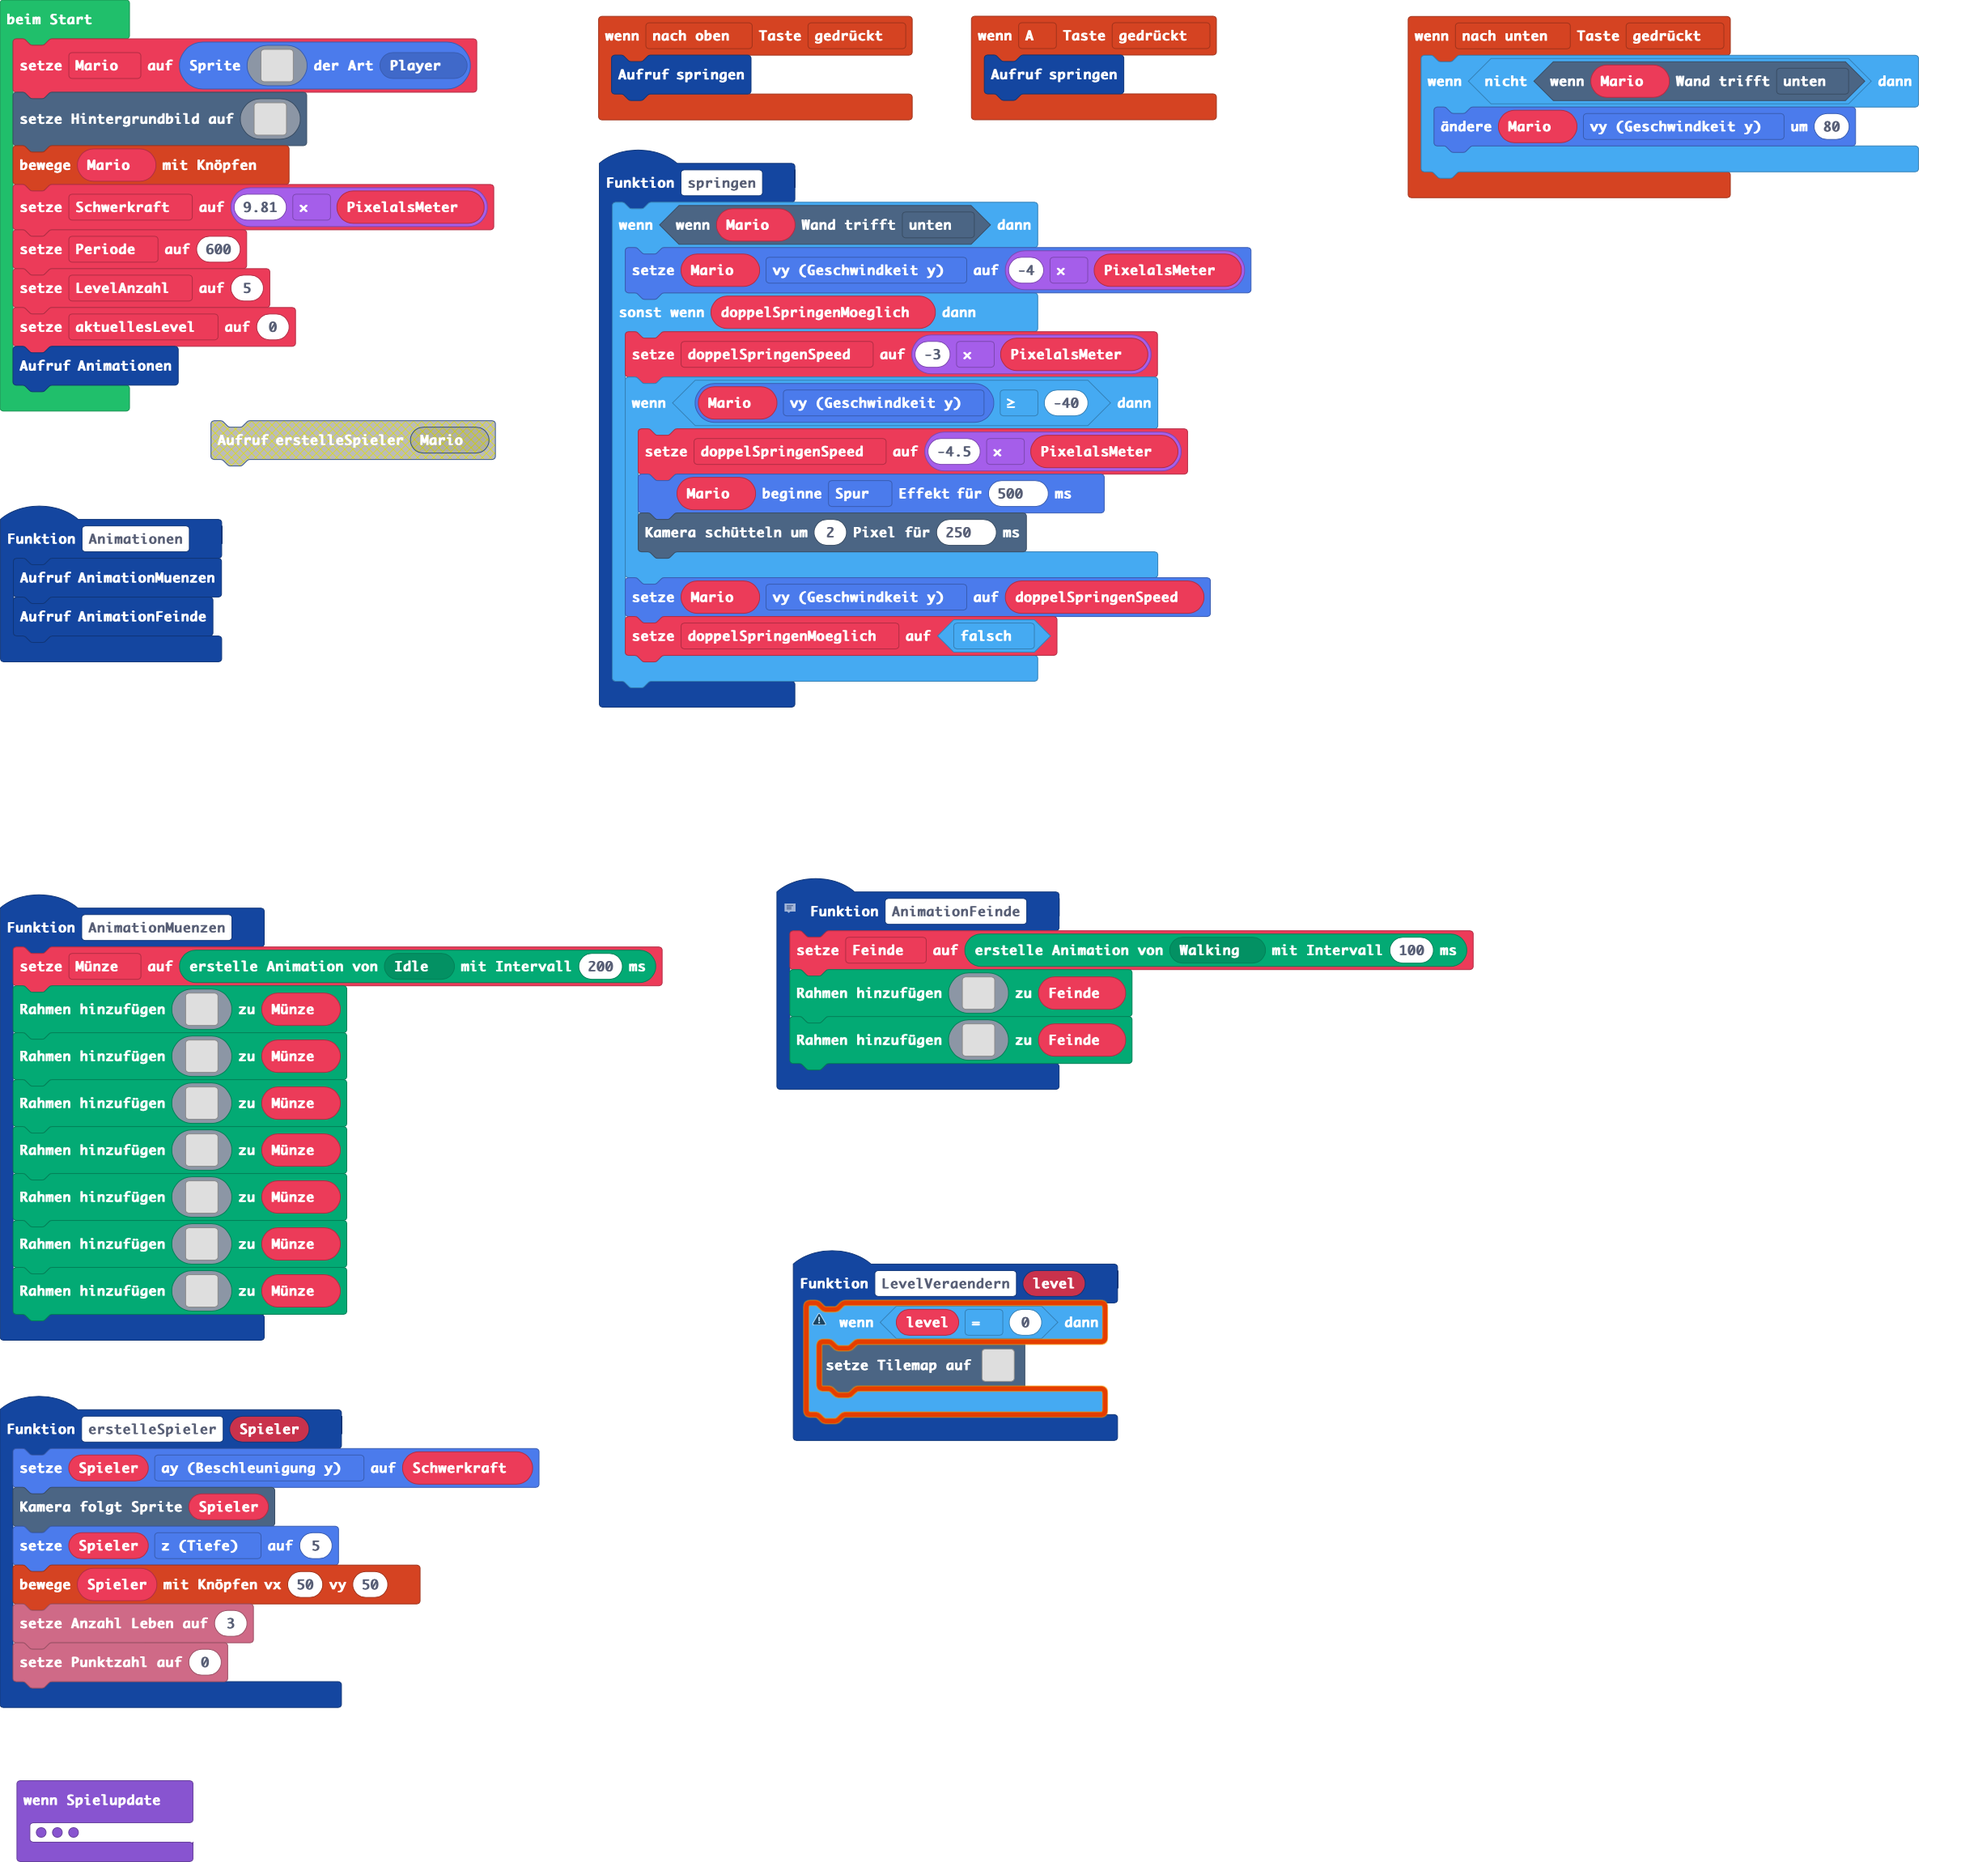
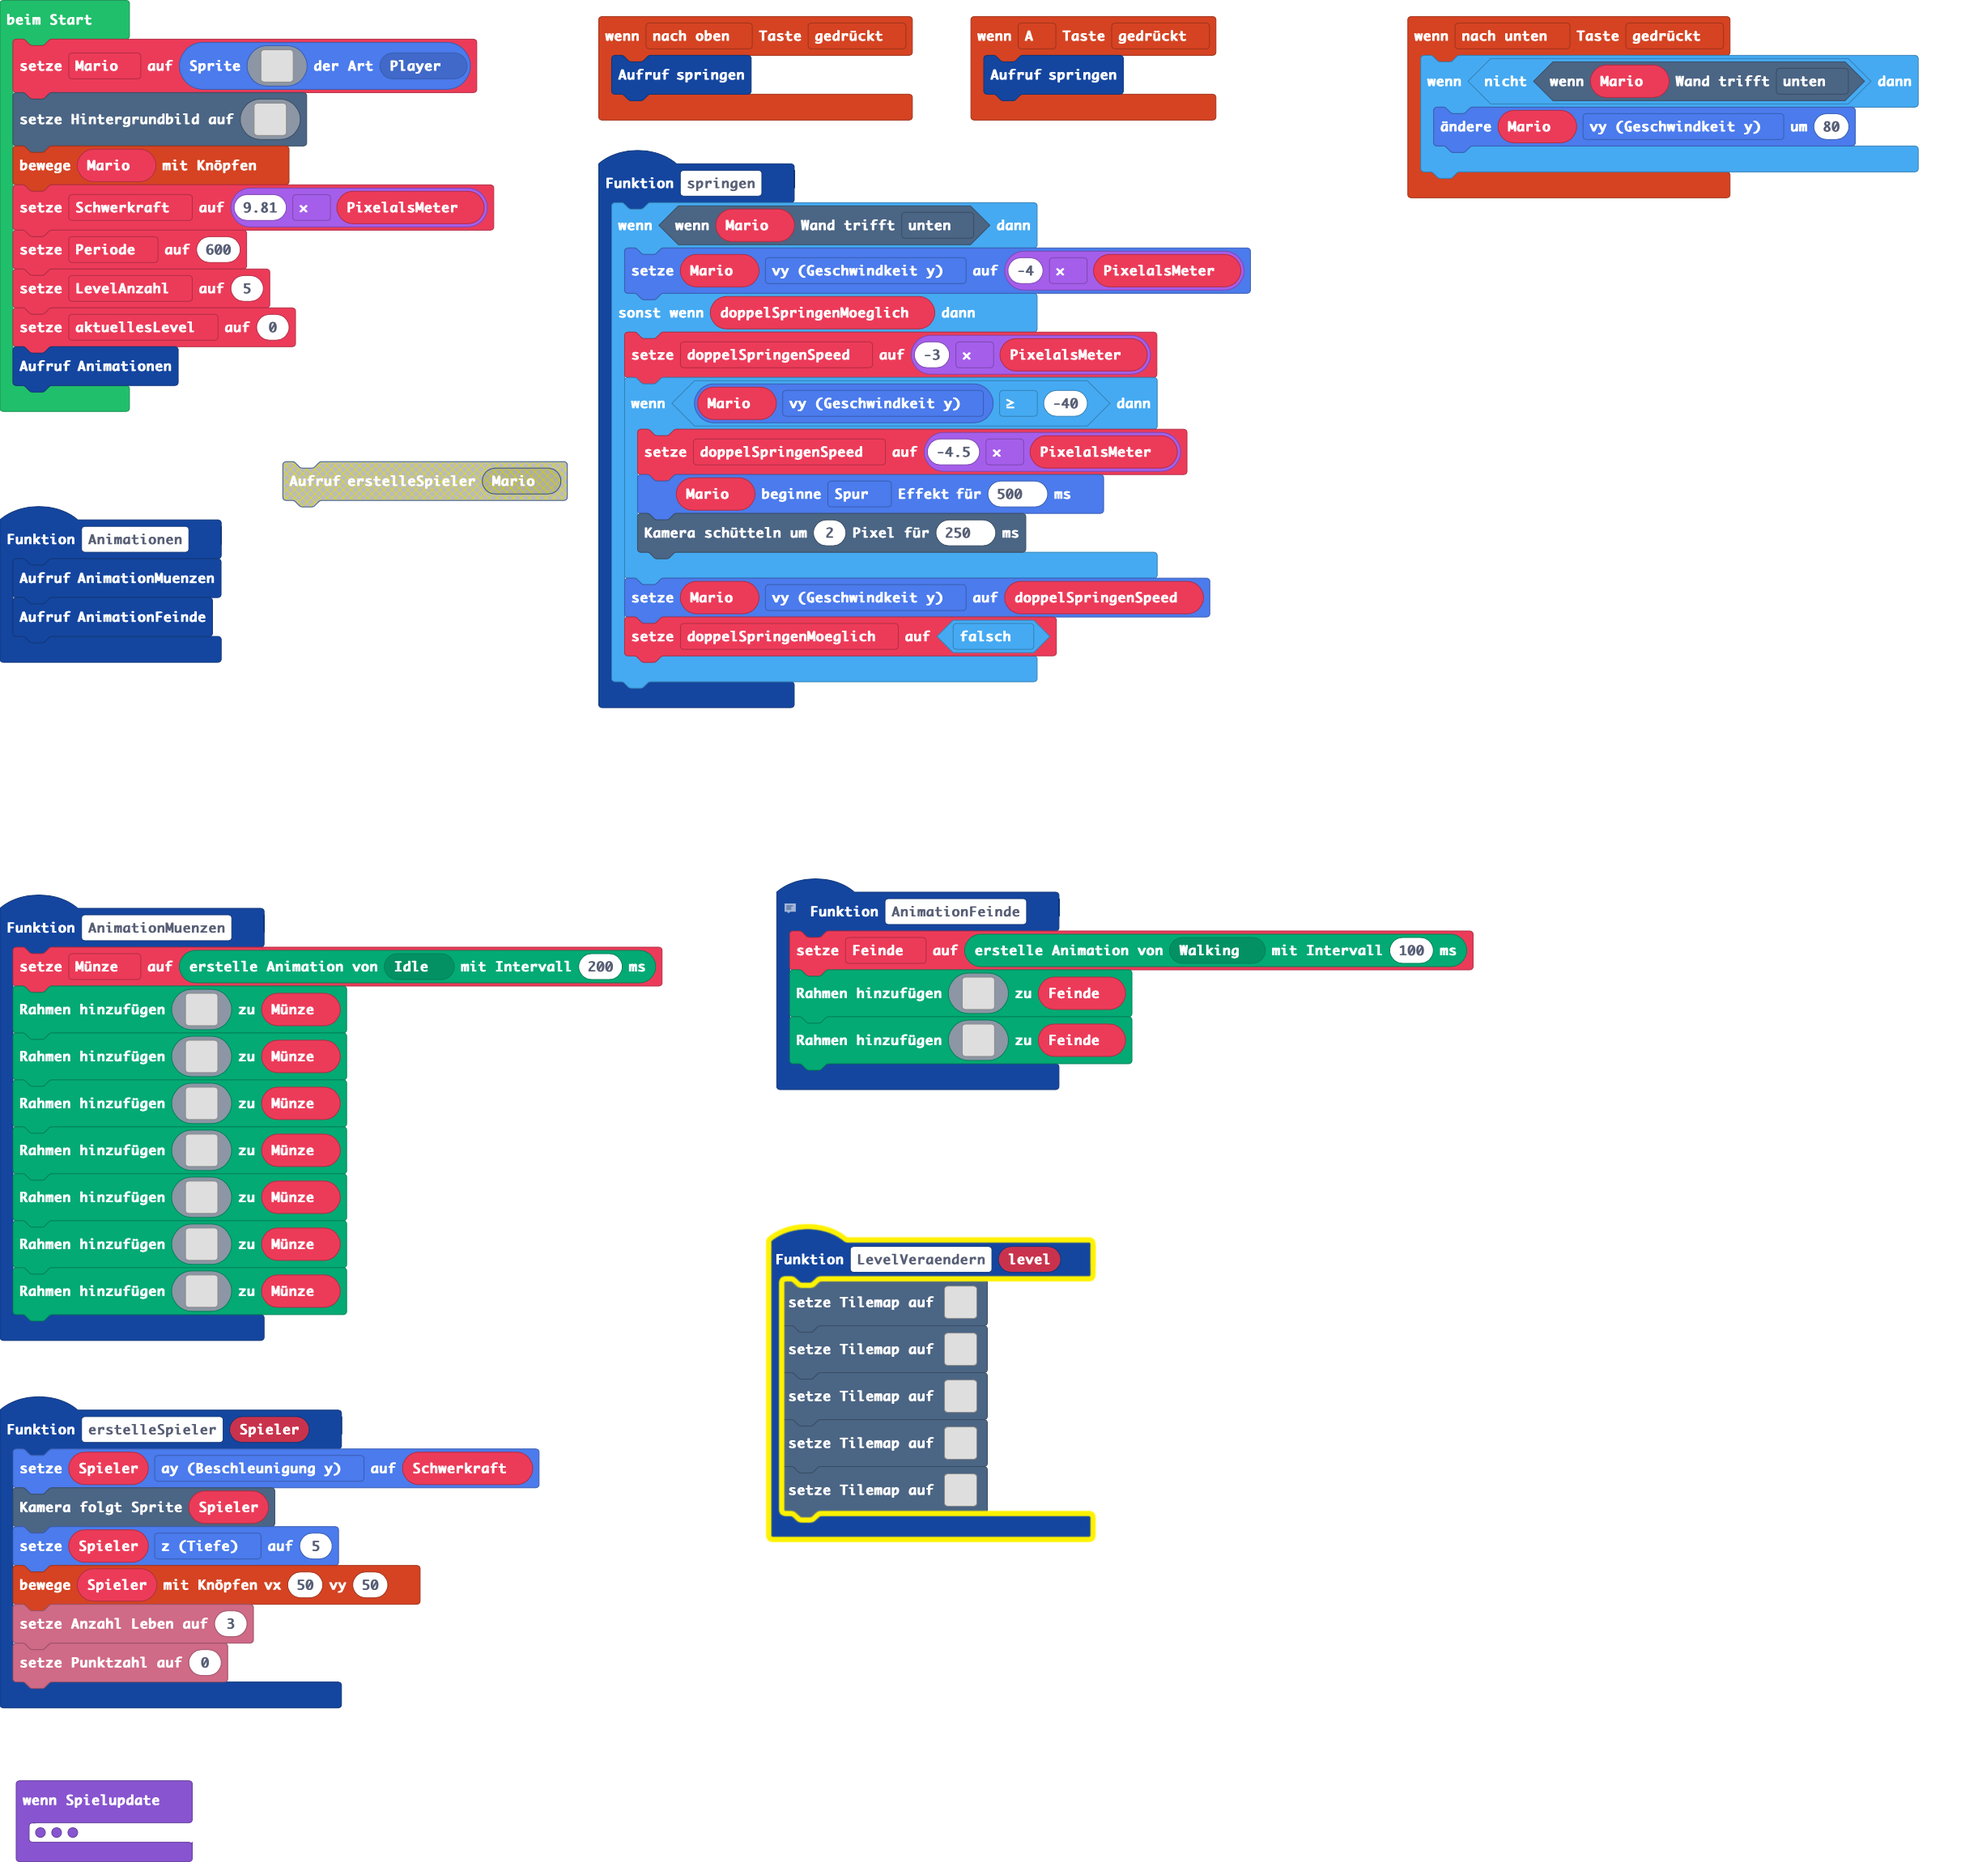
Verschiedene Level erstellt

diff --git a/tilemap.g.ts b/tilemap.g.ts
@@ -22,6 +22,118 @@ namespace myTiles {
 ...2...2..2..2...2...2...2......
 22222222222222222222222222222222
 `, [myTiles.transparency16,sprites.castle.tilePath1,sprites.castle.tilePath2,sprites.castle.tilePath3,sprites.builtin.brick,myTiles.tile1,myTiles.tile3], TileScale.Sixteen);
+            case "Level3":
+            case "Level3":return tiles.createTilemap(hex`1000100000000000000000000000000000000000000000000000000000000000000000000000000000000000000000000000000000000000000000000000000000000000000000000000000000000000000000000000000000000000000000000000000000000000000000000000000000000000000000000000000000000000000000000000000000000000000000000000000000000000000000000000000000000000000000000000000000000000000000000000000000000000000000000000000000000000000000000000000000000000000000000000000000000000000000000000000000000000000000000000000000000000000000000000000000000000`, img`
+. . . . . . . . . . . . . . . . 
+. . . . . . . . . . . . . . . . 
+. . . . . . . . . . . . . . . . 
+. . . . . . . . . . . . . . . . 
+. . . . . . . . . . . . . . . . 
+. . . . . . . . . . . . . . . . 
+. . . . . . . . . . . . . . . . 
+. . . . . . . . . . . . . . . . 
+. . . . . . . . . . . . . . . . 
+. . . . . . . . . . . . . . . . 
+. . . . . . . . . . . . . . . . 
+. . . . . . . . . . . . . . . . 
+. . . . . . . . . . . . . . . . 
+. . . . . . . . . . . . . . . . 
+. . . . . . . . . . . . . . . . 
+. . . . . . . . . . . . . . . . 
+`, [myTiles.transparency16], TileScale.Sixteen);
+            case "Level0":
+            case "Level2":return tiles.createTilemap(hex`2000080000000000000000000000000000000000000000000000000000000000000000000000000000000000000000000000000000000000000000000000000000000000000000000000000000020000020000000000000000000000000000000000000000000000000200050505050505050500000000000000000002000000000000000000000000000000000000000000000000000000000000000000000000000000000002000005000000000000000000000500000000000000050000000000000000000500000500000005000005000000050002000500000005000000000001000304040404040404040404040404040404040404040404040404040404040404`, img`
+. . . . . . . . . . . . . . . . . . . . . . . . . . . . . . . . 
+. . . . . . . . . . . . . . . . . . . . . . . . . . . . . . . . 
+. . . . . . . . . . . . . . . . . . . . . . . . . . . . . . . . 
+. . . . . . . 2 2 2 2 2 2 2 2 . . . . . . . . . . . . . . . . . 
+. . . . . . . . . . . . . . . . . . . . . . . . . . . . . . . . 
+. . . . . 2 . . . . . . . . . . 2 . . . . . . . 2 . . . . . . . 
+. . 2 . . 2 . . . 2 . . 2 . . . 2 . . . 2 . . . 2 . . . . . . . 
+2 2 2 2 2 2 2 2 2 2 2 2 2 2 2 2 2 2 2 2 2 2 2 2 2 2 2 2 2 2 2 2 
+`, [myTiles.transparency16,myTiles.tile1,myTiles.tile3,sprites.castle.tilePath1,sprites.castle.tilePath2,sprites.builtin.brick], TileScale.Sixteen);
+            case "Level5":
+            case "Level4":return tiles.createTilemap(hex`2000080000000000000000000000000000000000000000000000000000000000000000000000000000000000000000000200000200000000000000000000020000000000000000000000000000000000060606060000000000000000000006000000000000000000000000000000000000000000000000000000000000000000000000000000000000000000000000060000000006000000000000060606000000000000000000060000020000060006000000000600000200000200000000000000000000000006000006000006000600060600060000060000060000000006000001000304040404040404040404040404040404040404040404040404040404040405`, img`
+. . . . . . . . . . . . . . . . . . . . . . . . . . . . . . . . 
+. . . . . . . . . . . . . . . . . . . . . . . . . . . . . . . . 
+. . . . . . . . . . . . 2 2 2 2 . . . . . . . . . . 2 . . . . . 
+. . . . . . . . . . . . . . . . . . . . . . . . . . . . . . . . 
+. . . . . . . . . . . 2 . . . . 2 . . . . . . 2 2 2 . . . . . . 
+. . . 2 . . . . . 2 . 2 . . . . 2 . . . . . . . . . . . . . . . 
+. . . 2 . . 2 . . 2 . 2 . 2 2 . 2 . . 2 . . 2 . . . . 2 . . . . 
+2 2 2 2 2 2 2 2 2 2 2 2 2 2 2 2 2 2 2 2 2 2 2 2 2 2 2 2 2 2 2 2 
+`, [myTiles.transparency16,myTiles.tile1,myTiles.tile3,sprites.castle.tilePath1,sprites.castle.tilePath2,sprites.castle.tilePath3,sprites.builtin.brick], TileScale.Sixteen);
+            case "Level7":
+            case "Level6":return tiles.createTilemap(hex`2000080000000000000000000000000000000000000000000000000000000000000000000000000000000002000000000000000000000000020000000000000000000000000000000000000000000000000000000000020006000000000000000000000000000000000006060000000000000000020006000600000000000000000000000000000000060000000000000000020006000600060000000000000000000000000000000600000000060606000006000600060006000606060000000000000000000006020000000000020000000600060006000600000200000006000001000305050505050505050505050505050505050505050505050505050505050504`, img`
+. . . . . . . . . . . . . . . . . . . . . . . . . . . . . . . . 
+. . . . . . . . . . . . . . . . . . . . . . . . . . . . . . . . 
+. . . . . . . . . . . . . . . . . . . . 2 . . . . . . . . . . . 
+. . . . . . 2 2 . . . . . . . . . . 2 . 2 . . . . . . . . . . . 
+. . . . . 2 . . . . . . . . . . 2 . 2 . 2 . . . . . . . . . . . 
+. . . . 2 . . . . 2 2 2 . . 2 . 2 . 2 . 2 . 2 2 2 . . . . . . . 
+. . . 2 . . . . . . . . . . 2 . 2 . 2 . 2 . . . . . . 2 . . . . 
+2 2 2 2 2 2 2 2 2 2 2 2 2 2 2 2 2 2 2 2 2 2 2 2 2 2 2 2 2 2 2 2 
+`, [myTiles.transparency16,myTiles.tile1,myTiles.tile3,sprites.castle.tilePath1,sprites.castle.tilePath3,sprites.castle.tilePath2,sprites.builtin.brick], TileScale.Sixteen);
+            case "Level9":
+            case "Level8":return tiles.createTilemap(hex`2000080000000000000000000000000000000000000000000000000000000000000000000000000000000000000002000000000002000200020000000000000000000000000000000000000006060606060000000600060006000600000000000000000000000000020000000000000000000000000000000000060000000000000000000000000006000600000002000000060000000000000006000606060000000000000006000600060000000600000006000000000000000600000206000000000000000600060006000000060000000600000000000000060000000600000001000305050505050505050505050505050505050505050505050505050505050504`, img`
+. . . . . . . . . . . . . . . . . . . . . . . . . . . . . . . . 
+. . . . . . . . . . . . . . . . . . . . . . . . . . . . . . . . 
+. . . . . . . . 2 2 2 2 2 . . . 2 . 2 . 2 . 2 . . . . . . . . . 
+. . . . . . . . . . . . . . . . . . . . . . 2 . . . . . . . . . 
+. . . . 2 . 2 . . . . . . . 2 . . . . . . . 2 . 2 2 2 . . . . . 
+. . 2 . 2 . 2 . . . 2 . . . 2 . . . . . . . 2 . . . 2 . . . . . 
+. . 2 . 2 . 2 . . . 2 . . . 2 . . . . . . . 2 . . . 2 . . . . . 
+2 2 2 2 2 2 2 2 2 2 2 2 2 2 2 2 2 2 2 2 2 2 2 2 2 2 2 2 2 2 2 2 
+`, [myTiles.transparency16,myTiles.tile1,myTiles.tile3,sprites.castle.tilePath1,sprites.castle.tilePath3,sprites.castle.tilePath2,sprites.builtin.brick], TileScale.Sixteen);
+            case "Level11":
+            case "Level10":return tiles.createTilemap(hex`2000080000000000000000000000000000020000000000000000000000000000000000000000000000000000000000020006000600000000000000000000000000000000000000000000000000020006000000000000000000000000000000000000000000000000000000000006000000000000060000000000000200000000000000000000000000000006000000000000000006000000000006060600000000000000000006060606000600000606060600000600000000000000000000000000000000000002000000060000000002000000060000000600000600000600000001000305050505050505050505050505050505050505050505050505050505050504`, img`
+. . . . . . . . . . . . . . . . . . . . . . . . . . . . . . . . 
+. . . . . . . . . . . . . 2 . 2 . . . . . . . . . . . . . . . . 
+. . . . . . . . . . . 2 . . . . . . . . . . . . . . . . . . . . 
+. . . . . . . . . 2 . . . . . . 2 . . . . . . . . . . . . . . . 
+. . . . . . . 2 . . . . . . . . 2 . . . . . 2 2 2 . . . . . . . 
+. . 2 2 2 2 . 2 . . 2 2 2 2 . . 2 . . . . . . . . . . . . . . . 
+. . . . . . . 2 . . . . . . . . 2 . . . 2 . . 2 . . 2 . . . . . 
+2 2 2 2 2 2 2 2 2 2 2 2 2 2 2 2 2 2 2 2 2 2 2 2 2 2 2 2 2 2 2 2 
+`, [myTiles.transparency16,myTiles.tile1,myTiles.tile3,sprites.castle.tilePath1,sprites.castle.tilePath3,sprites.castle.tilePath2,sprites.builtin.brick], TileScale.Sixteen);
+            case "Level12":
+            case "Level12":return tiles.createTilemap(hex`1000100000000000000000000000000000000000000000000000000000000000000000000000000000000000000000000000000000000000000000000000000000000000000000000000000000000000000000000000000000000000000000000000000000000000000000000000000000000000000000000000000000000000000000000000000000000000000000000000000000000000000000000000000000000000000000000000000000000000000000000000000000000000000000000000000000000000000000000000000000000000000000000000000000000000000000000000000000000000000000000000000000000000000000000000000000000000`, img`
+. . . . . . . . . . . . . . . . 
+. . . . . . . . . . . . . . . . 
+. . . . . . . . . . . . . . . . 
+. . . . . . . . . . . . . . . . 
+. . . . . . . . . . . . . . . . 
+. . . . . . . . . . . . . . . . 
+. . . . . . . . . . . . . . . . 
+. . . . . . . . . . . . . . . . 
+. . . . . . . . . . . . . . . . 
+. . . . . . . . . . . . . . . . 
+. . . . . . . . . . . . . . . . 
+. . . . . . . . . . . . . . . . 
+. . . . . . . . . . . . . . . . 
+. . . . . . . . . . . . . . . . 
+. . . . . . . . . . . . . . . . 
+. . . . . . . . . . . . . . . . 
+`, [myTiles.transparency16], TileScale.Sixteen);
+            case "Level13":
+            case "Level13":return tiles.createTilemap(hex`1000100000000000000000000000000000000000000000000000000000000000000000000000000000000000000000000000000000000000000000000000000000000000000000000000000000000000000000000000000000000000000000000000000000000000000000000000000000000000000000000000000000000000000000000000000000000000000000000000000000000000000000000000000000000000000000000000000000000000000000000000000000000000000000000000000000000000000000000000000000000000000000000000000000000000000000000000000000000000000000000000000000000000000000000000000000000000`, img`
+. . . . . . . . . . . . . . . . 
+. . . . . . . . . . . . . . . . 
+. . . . . . . . . . . . . . . . 
+. . . . . . . . . . . . . . . . 
+. . . . . . . . . . . . . . . . 
+. . . . . . . . . . . . . . . . 
+. . . . . . . . . . . . . . . . 
+. . . . . . . . . . . . . . . . 
+. . . . . . . . . . . . . . . . 
+. . . . . . . . . . . . . . . . 
+. . . . . . . . . . . . . . . . 
+. . . . . . . . . . . . . . . . 
+. . . . . . . . . . . . . . . . 
+. . . . . . . . . . . . . . . . 
+. . . . . . . . . . . . . . . . 
+. . . . . . . . . . . . . . . . 
+`, [myTiles.transparency16], TileScale.Sixteen);
         }
         return null;
     })

diff --git a/main.py b/main.py
@@ -24,11 +24,9 @@ controller.up.onEvent(ControllerButtonEvent.Pressed, function () {
     springen()
 })
 function LevelVeraendern (level: Sprite) {
-    tiles.setTilemap(tilemap`Level0`)
-    tiles.setTilemap(tilemap`Level5`)
-    tiles.setTilemap(tilemap`Level7`)
-    tiles.setTilemap(tilemap`Level9`)
-    tiles.setTilemap(tilemap`Level11`)
+    if (level == 0) {
+        tiles.setTilemap(tilemap`Level1`)
+    }
 }
 controller.down.onEvent(ControllerButtonEvent.Pressed, function () {
     if (!(Mario.isHittingTile(CollisionDirection.Bottom))) {
